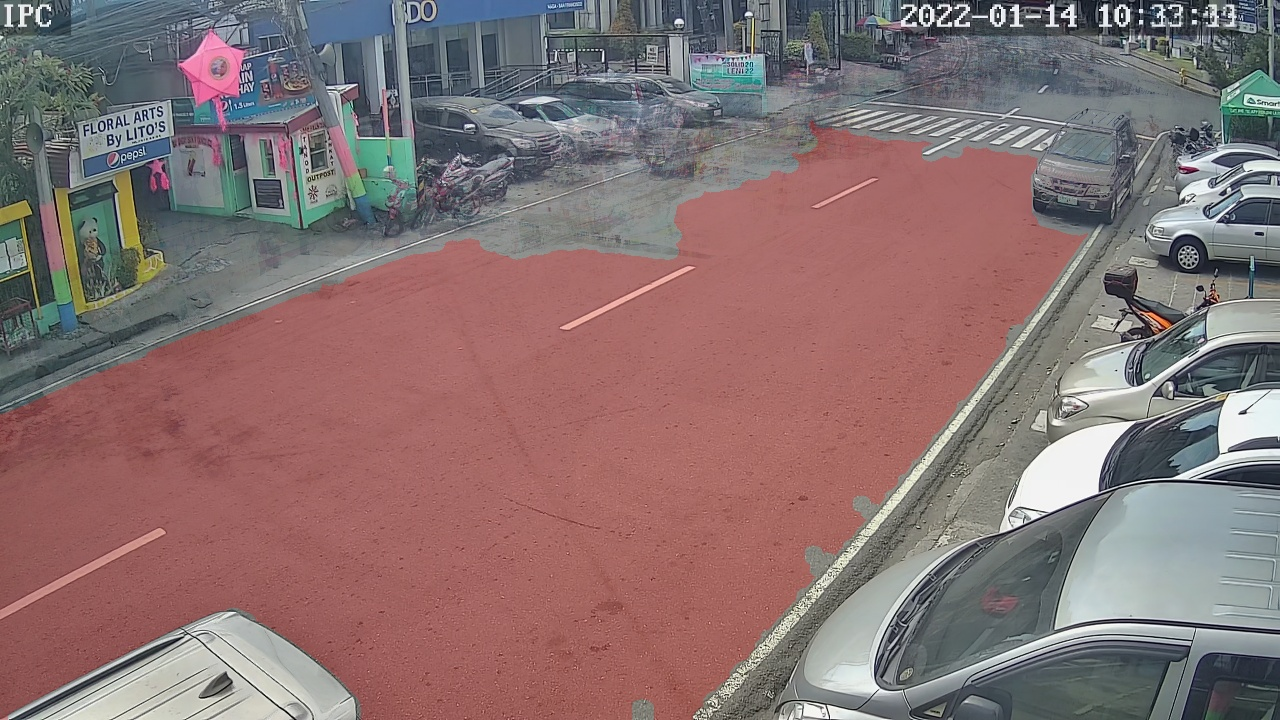
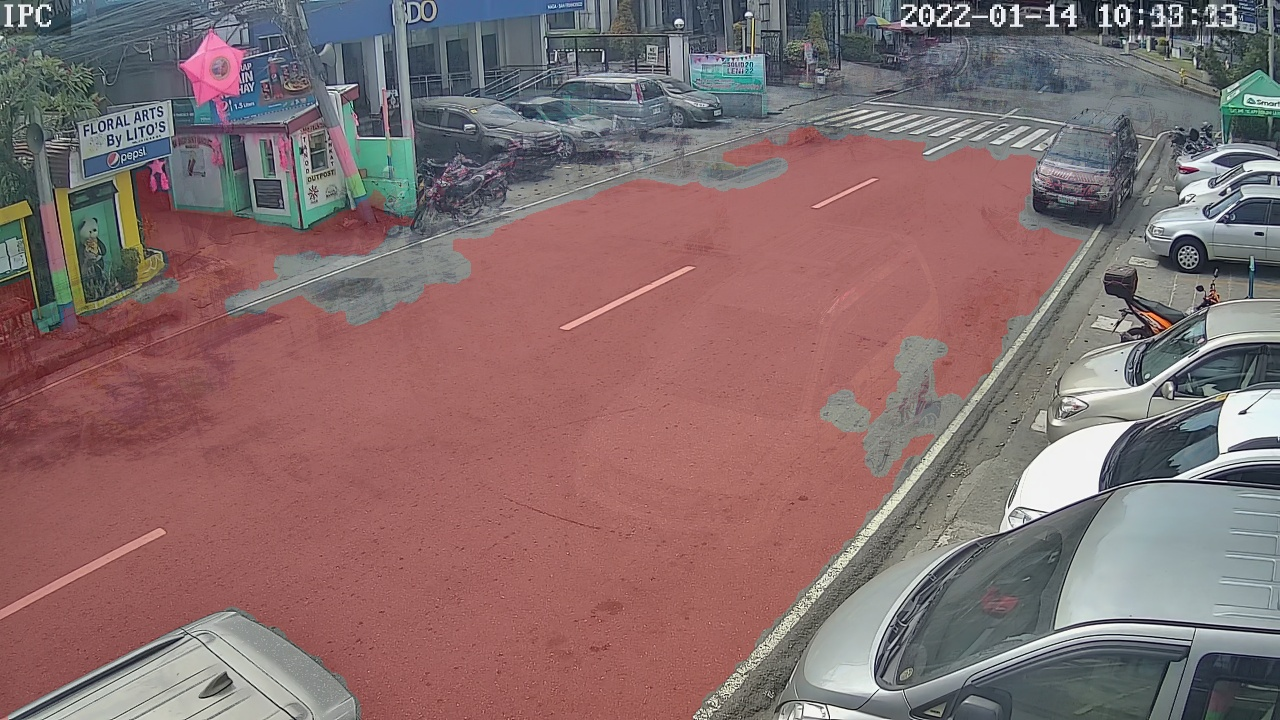
Fixed bug - delayed bbox showing up - removed saving video

diff --git a/detection_module/yolov5/utils/general.py b/detection_module/yolov5/utils/general.py
@@ -107,30 +107,44 @@ os.environ['NUMEXPR_MAX_THREADS'] = str(NUM_THREADS)  # NumExpr max threads
 
 def compute_thresh(w, h):
     area = w*h
-    thresh = int(area * 0.0008)
+    thresh = area * 0.0005
+    thresh = thresh.astype(int)
     return thresh
 
 # NOTE: resason for doing this is.... instead of doing the filtering of stationary in outpt loop after the deepsort update
 # it is more efficient to only pass vehicles that aren't moving in deepsort so that the swapping of ID's would be less likely
 # to occur.
-def isStationary(xy,  xywhs, confs, clss, PREV_XY, frm_id, fps, strt_time):
+def isStationary(xy, wh, xywhs, confs, clss, PREV_XY, frm_id, fps, strt_time):
     xy = np.asarray((xy), dtype=int)
+    # x = xy[:,0]
+    # y = xy[:,1]
+    wh = np.asarray((wh), dtype=int)
+    thresh = np.zeros(len(xy), dtype=int)
     res = np.zeros(len(xy), dtype=int)
-    if len(xy) !=0:
+    if len(xy) > 0:
+        thresh = compute_thresh(wh[:,0], wh[:,1])
+        # print('thresh len = ', len(thresh))
+        # print('xy len = ', len(xy))
         for i in range(len(xy)):
             for x in range(len(PREV_XY)):
-                thresh = compute_thresh(xywhs[i][2].item(),xywhs[i][3].item()) # returns 5% of area of bbox allowance of vehicle movement
-                if np.abs(xy[i][0] - PREV_XY[x][0]) <=thresh and np.abs(xy[i][1] - PREV_XY[x][1]) <=thresh and thresh >=4:
+                # thresh = compute_thresh(xywhs[i][2].item(),xywhs[i][3].item()) # returns 5% of area of bbox allowance of vehicle movement
+                if (np.abs(xy[i][0] - PREV_XY[x][0]) <=thresh[i]) and (np.abs(xy[i][1] - PREV_XY[x][1]) <=thresh[i]) and (thresh[i] >=4):
                     res[i] = 1
                     break
+        # res = xy[np.abs(xy[:,0]-PREV_XY[:,0]) <= thresh and np.abs(xy[:,1] - PREV_XY[:,1]) <=thresh and thresh >=4]
+        # res = xy[(np.abs(xy[:,0]-prev[0]) <= thresh and np.abs(xy[:,1] - prev[1]) <=thresh and thresh >=4 for prev in PREV_XY)]
+        # res = [np.where(np.abs(x-prev[0]) <= thresh and np.abs(y - prev[1]) <=thresh and thresh >=4) for prev in PREV_XY]
+        
+    # print('---------------------------',res,'--------------------')
     stationary = np.where(res == 1)[0]
     xywhs = xywhs[stationary]
     confs = confs[stationary]
     clss = clss[stationary]
-    if time.time()-strt_time > 0: # means a second has passed
-        xy = PREV_XY
+    if time.time()-strt_time >= 1: # means a second has passed
+        # print(time.time()-strt_time, '= sec')
+        PREV_XY = xy
         strt_time = time.time() # initiate again a new timer
-    return xywhs, confs, clss, xy 
+    return xywhs, confs, clss, PREV_XY, strt_time
     
 
 def apply_roi_in_scene(roi, im1):
@@ -745,7 +759,7 @@ def clip_coords(boxes, shape):
         boxes[:, [1, 3]] = boxes[:, [1, 3]].clip(0, shape[0])  # y1, y2
 
 
-def non_max_suppression(prediction, conf_thres=0.25, iou_thres=0.45, classes=None, agnostic=False, multi_label=False,
+def non_max_suppression(prediction, conf_thres=0.25, iou_thres=0.45, classes=None, agnostic=True, multi_label=False,
                         labels=(), max_det=300):
     """Runs Non-Maximum Suppression (NMS) on inference results
 
@@ -765,7 +779,7 @@ def non_max_suppression(prediction, conf_thres=0.25, iou_thres=0.45, classes=Non
     max_nms = 30000  # maximum number of boxes into torchvision.ops.nms()
     time_limit = 10.0  # seconds to quit after
     redundant = True  # require redundant detections
-    multi_label &= nc > 1  # multiple labels per box (adds 0.5ms/img)
+    # multi_label &= nc > 1  # multiple labels per box (adds 0.5ms/img)
     merge = False  # use merge-NMS
 
     t = time.time()

diff --git a/detection_module/track.py b/detection_module/track.py
@@ -215,14 +215,17 @@ class det:
                         xywhs = xyxy2xywh(det[:, 0:4])
                         confs = det[:, 4]
                         clss = det[:, 5]
-                        xy = xywhs.cpu().detach().numpy()
+                        xy = wh = xywhs.cpu().detach().numpy()
+                        wh = wh[:, 2:]
                         xy = xy[:, :2]
+                        
+                        
                         
                         if frame_idx > 0: # if on the 1st frame of vid, assume no previous frame
                             
                             # After eliminating vehicles outside ROI, eliminate moving vehicles
                             t8 = time_sync()
-                            xywhs, confs, clss, self.PREV_XY = isStationary(xy, xywhs, confs, clss, self.PREV_XY, frm_id, vid_fps, self.start_time)
+                            xywhs, confs, clss, self.PREV_XY, self.start_time = isStationary(xy, wh, xywhs, confs, clss, self.PREV_XY, frm_id, vid_fps, self.start_time)
                             t9 = time_sync()
                             # pass detections to deepsort
                             t4 = time_sync()
@@ -292,10 +295,12 @@ class det:
                                         self.vehicleInfos['class'].append(self.names[c])
                                         label = f'{id} {self.names[c]}: {t}'
                                         annotator.box_label(bboxes, label, color=(0,165,255))
+                            self.dt[4] += t5 - tim
                             LOGGER.info(f'Done. Read-frame: ({t1-tim:.3f}), YOLO:({t3 - t2:.3f}s), DeepSort:({t5 - t4:.3f}s), Stationary:({t9 - t8:.3f}s) Overall:({t5-tim:.3f}s)')
                         else: # set the prev frame xy to current xy
                             self.PREV_XY = xy
                             self.start_time = time.time()
+                            print('in',frame_idx, ' frame')
 
                     else:
                         self.deepsort.increment_ages()

diff --git a/params.py b/params.py
@@ -9,10 +9,10 @@ deep_sort_model='osnet_x0_25'
 output='inference/output'
 imgsz=[640]
 conf_thres=0.25 # .25
-iou_thres=0.5 # .5
+iou_thres=0.45 # .5
 fourcc='mp4v'
 device=0
-save_vid = True
+save_vid = False
 evaluate=False
 config_deepsort="deep_sort/configs/deep_sort.yaml"
 half=True
